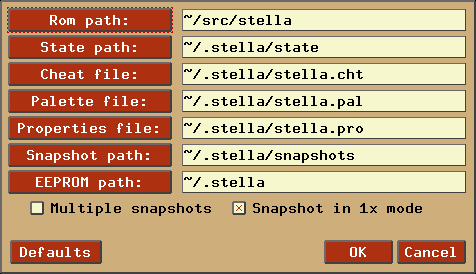
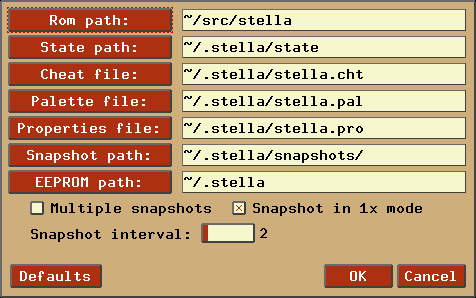
OK, hopefully this is the final commit for 3.1 (yeah right!). Updated all remaining issues with the documentation and changelog, and bumped the version # to 3.1.

diff --git a/docs/debugger.html b/docs/debugger.html
@@ -998,7 +998,7 @@ them. When you're done, press Enter to accept the changes (in which case
 the cart will be re-disasembled) or Escape to cancel them.
 Note that only instructions that have been fully disassembled
 can be edited.  In particular, blank lines or lines with '.byte' directives
-cannot be edited.  If you wish to edit the latter, then the 'Determine code'
+cannot be edited.  If you wish to edit the latter, then the 'Resolve data'
 item should be set to 'Never' first.  Also note that certain ROMs can have
 sections of address space swapped in and out dynamically.  As such, changing
 the contents of a certain address will change the area pointed to <b>at

diff --git a/docs/index.html b/docs/index.html
@@ -594,6 +594,7 @@
 					<tr><td>EEPROM path</td><td>specifies location of EEPROM files</td><td>-eepromdir</td></tr>
 					<tr><td>Multiple snapshots</td><td>whether to overwrite old snapshots</td><td>-sssingle</td></tr>
 					<tr><td>Snapshot in 1x mode</td><td>save snapshot in 1x mode, without filtering</td><td>-ss1x</td></tr>
+					<tr><td>Snapshot interval</td><td>interval (in seconds) between snapshot</td><td>-ssinterval</td></tr>
 				</table>
 			</td>
 		</tr>
